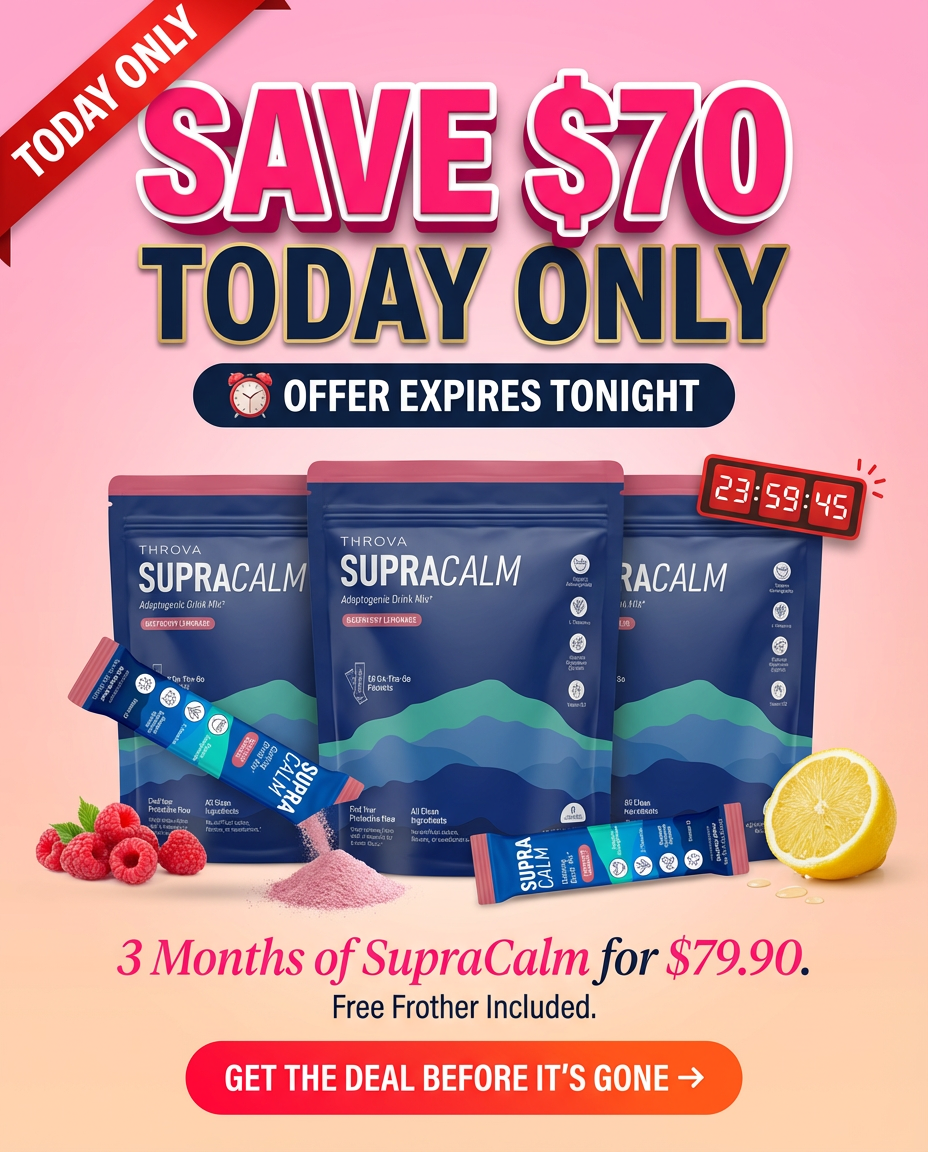
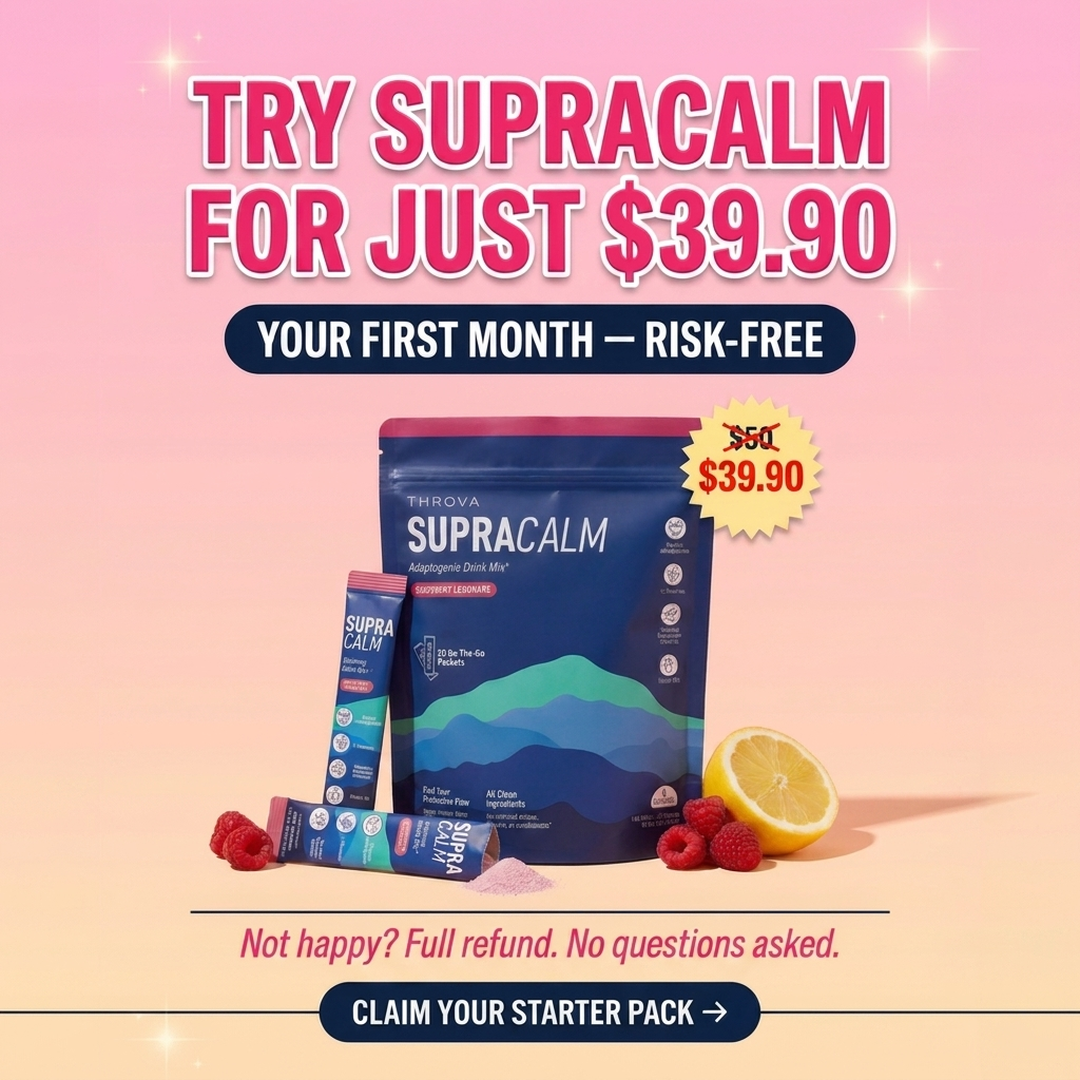
Expand performance marquee with 4 new niche creatives + UGC video

diff --git a/src/components/creative-marquee.tsx b/src/components/creative-marquee.tsx
@@ -19,9 +19,13 @@ interface CreativeCard {
 const cards: CreativeCard[] = [
   { src: "/creatives/infographic.png", category: "Supplements", metric: "+45%", metricLabel: "Click Rate" },
   { src: "/creatives/before-after.png", category: "Beauty", metric: "+3.8x", metricLabel: "ROAS" },
+  { src: "/creatives/lucia-sundress.png", category: "Fashion", metric: "+3.2x", metricLabel: "ROAS" },
+  { src: "/creatives/sleep-testimonial.mp4", category: "Supplements", metric: "+38%", metricLabel: "Hold Rate" },
   { src: "/creatives/liquid-vs-pills.png", category: "Health", metric: "+34%", metricLabel: "Click Rate" },
-  { src: "/creatives/closing-sale.png", category: "Jewelry", metric: "+2.7x", metricLabel: "ROAS" },
+  { src: "/creatives/linde-bedding.png", category: "Home Goods", metric: "+52%", metricLabel: "AOV" },
+  { src: "/creatives/gut-cleanse.png", category: "Gut Health", metric: "+3.4x", metricLabel: "ROAS" },
   { src: "/creatives/save-today.png", category: "Supplements", metric: "+29%", metricLabel: "Conversion" },
+  { src: "/creatives/vela-jewelry.png", category: "Jewelry", metric: "+47%", metricLabel: "Conversion" },
   { src: "/creatives/cortisol-ugc.mp4", category: "Supplements", metric: "+4.1x", metricLabel: "ROAS" },
 ];
 
@@ -86,7 +90,7 @@ function CreativeCardItem({ card }: { card: CreativeCard }) {
               muted
               playsInline
               preload="metadata"
-              className="absolute inset-0 h-full w-full object-cover transition-transform duration-700 group-hover:scale-[1.03]"
+              className="absolute inset-0 h-full w-full object-cover scale-[1.08] transition-transform duration-700 group-hover:scale-[1.11]"
             />
           ) : (
             <Image